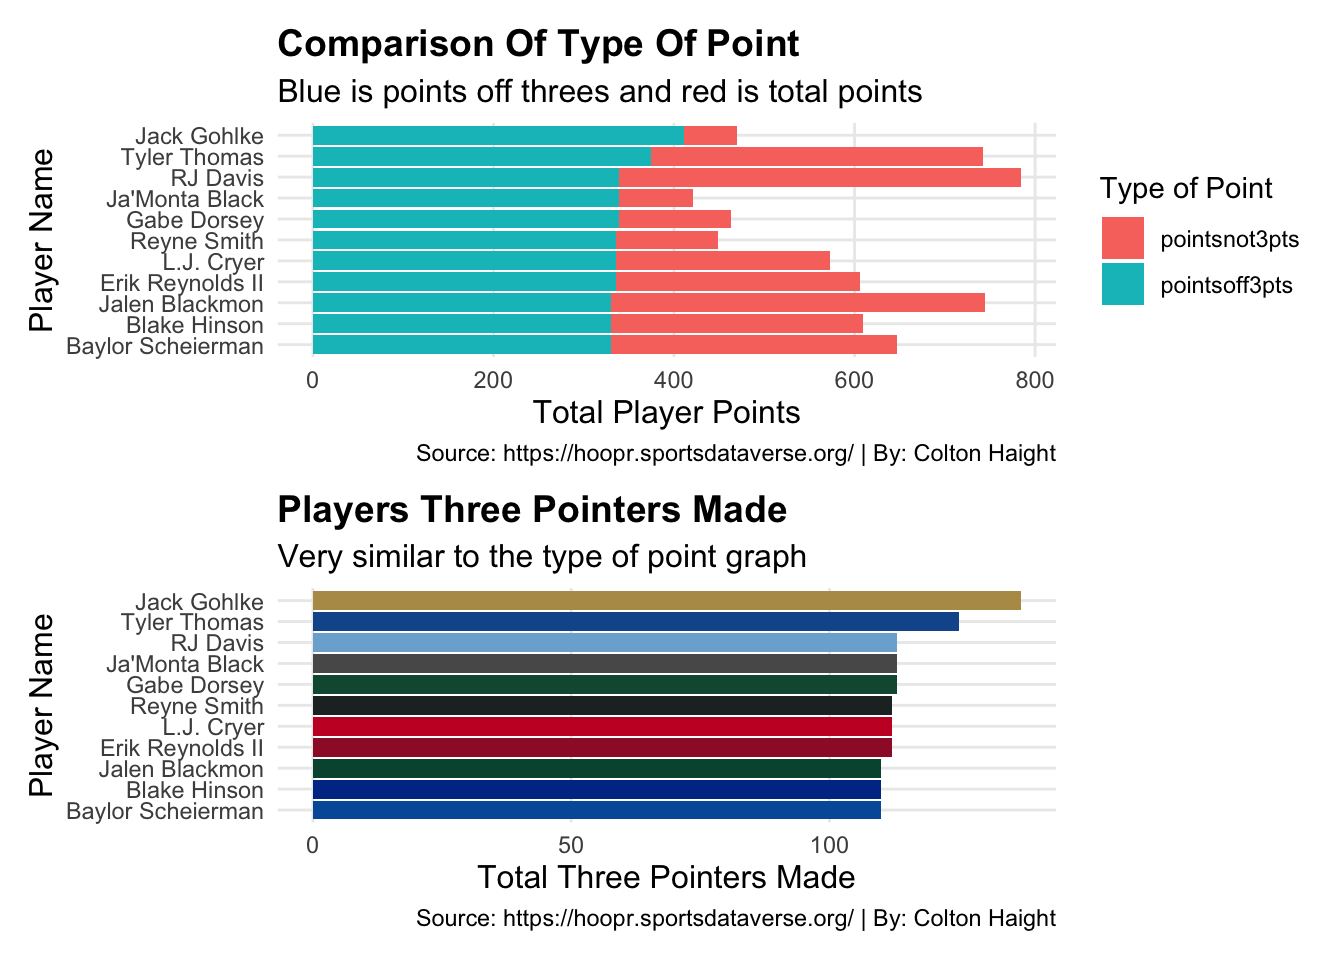
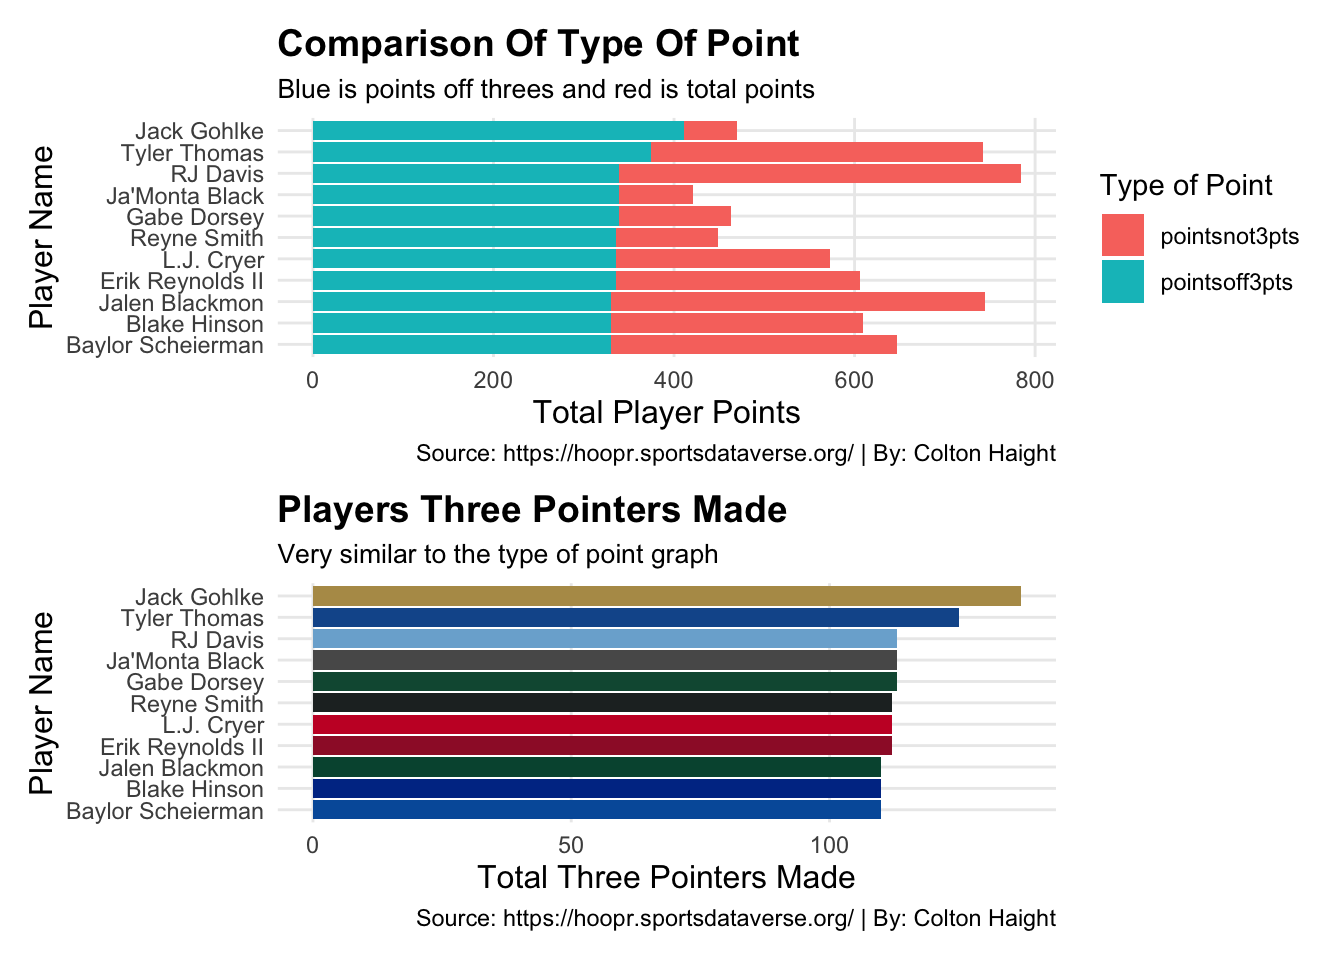
wrote some of blog

diff --git a/posts/best-3pt-shooter-mcbb-2024/index.html b/posts/best-3pt-shooter-mcbb-2024/index.html
@@ -7,7 +7,7 @@
 <meta name="viewport" content="width=device-width, initial-scale=1.0, user-scalable=yes">
 
 <meta name="author" content="Colton Haight">
-<meta name="dcterms.date" content="2024-11-05">
+<meta name="dcterms.date" content="2024-11-17">
 
 <title>Who Was The Best Three-Point Shooter in Men’s College Basketball During The 2023-2024 Season? – Haight Talks Sports</title>
 <style>
@@ -170,7 +170,7 @@ pre > code.sourceCode > span > a:first-child::before { text-decoration: underlin
       <div>
       <div class="quarto-title-meta-heading">Published</div>
       <div class="quarto-title-meta-contents">
-        <p class="date">November 5, 2024</p>
+        <p class="date">November 17, 2024</p>
       </div>
     </div>
     
@@ -189,7 +189,12 @@ pre > code.sourceCode > span > a:first-child::before { text-decoration: underlin
 
 
 
-<p>Basketball</p>
+<p>Three point shooting is a relatively new concept in the sport of basketball. After this season, NCAA men’s basketball will have been around for 130 years. That’s an extremely long amount of time. But the three point line has only been a part of the game of basketball since 1986. Only about 40 years of the 130 year history of the game there has been a three point line. But with recent styles of play and popularity it seems like it could have been around for the entire time basketball has been an organized sport.</p>
+<p>The recent surge in the volume of three pointers shot has risen a significant amount over just the last 10-15 years thanks to the success of Stephen Curry and the Golden State Warriors during their dynasty run. If you can not shoot three pointers in today’s game, you are falling behind.</p>
+<p>In professional basketball it is pretty easy to see who the best shooters are because there are only 30 teams and 18 players per team roster, or 540 players. But college basketball is a bit harder to figure out. There are a whopping 351 NCAA Division 1 men’s college basketball teams and with 15 players per roster that brings a total of 5,265 players!</p>
+<p>In this post we will be trying to figure out who the best three point shooter is in Division 1 men’s college basketball over the 2023-2024 season.</p>
+<p>The hoopR package from the <a href="https://www.sportsdataverse.org/packages"><code>sportsdataverse</code></a> has given me the data to help us figure out who could be the best three point shooter in all of D1 men’s college basketball last season.</p>
+<p>Let’s start by looking at a plot of all D1 men’s college basketball players who shot a total of at least 200 three pointers last season, comparing the total three pointers a player made to the amount of three point shots they took.</p>
 <div class="cell">
 <details class="code-fold">
 <summary>Code</summary>
@@ -242,7 +247,7 @@ pre > code.sourceCode > span > a:first-child::before { text-decoration: underlin
 </div>
 </div>
 </div>
-<p>hello</p>
+<p>Just looking at the scatter plot you can tell there are two pretty extreme outliers. Let’s figure out who they are. While we are finding out who the outliers are, here’s another plot that changes the size of the dots to show each player’s three point percentage from the 2023-2024 season.</p>
 <div class="cell">
 <details class="code-fold">
 <summary>Code</summary>
@@ -279,7 +284,10 @@ pre > code.sourceCode > span > a:first-child::before { text-decoration: underlin
 </div>
 </div>
 </div>
-<p>hello</p>
+<p>The two outliers are Jack Gohlke of the Oakland Golden Grizzlies and Tyler Thomas of the Hofstra Pride. The sheer number of three pointers shot and made by these two players last season are head and shoulders above every other player in men’s college basketball. Gohlke made 137 three pointers on the season while Thomas made 125 three pointers.</p>
+<p>Jack Gohlke had a crazy run in the NCAA Men’s Tournament last season where he went 10-20 from behind the arc in an upset win over 3rd seeded Kentucky as the 14th seed. He also knocked down 6 more threes in the next game of the tournament against NC State but fell short and were defeated.</p>
+<p>Tyler Thomas and Hofstra unfortunately failed to reach the NCAA Tournament last season but he still had a great three point shooting season.</p>
+<p>The next best way to judge how good of a shooter a player is will be by looking at the percentage they make. In any level of basketball shooting 40% on three pointers means you are an extremely efficient shooter, so let’s narrow down our group of players from before to players who made at least 40% of the three pointers they shot last season. Let’s also plot out the amount of points these players scored because a great shooter should also have a good variety of ways to get points in their arsenal. The size of dots will also be based off of the amount of threes a player made last season.</p>
 <div class="cell">
 <details class="code-fold">
 <summary>Code</summary>
@@ -370,7 +378,7 @@ pre > code.sourceCode > span > a:first-child::before { text-decoration: underlin
 <span id="cb4-40"><a href="#cb4-40" aria-hidden="true" tabindex="-1"></a>  <span class="fu">theme</span>(</span>
 <span id="cb4-41"><a href="#cb4-41" aria-hidden="true" tabindex="-1"></a>    <span class="at">plot.title =</span> <span class="fu">element_text</span>(<span class="at">size =</span> <span class="dv">14</span>, <span class="at">face =</span> <span class="st">"bold"</span>),</span>
 <span id="cb4-42"><a href="#cb4-42" aria-hidden="true" tabindex="-1"></a>    <span class="at">axis.title =</span> <span class="fu">element_text</span>(<span class="at">size =</span> <span class="dv">12</span>), </span>
-<span id="cb4-43"><a href="#cb4-43" aria-hidden="true" tabindex="-1"></a>    <span class="at">plot.subtitle =</span> <span class="fu">element_text</span>(<span class="at">size =</span> <span class="dv">12</span>), </span>
+<span id="cb4-43"><a href="#cb4-43" aria-hidden="true" tabindex="-1"></a>    <span class="at">plot.subtitle =</span> <span class="fu">element_text</span>(<span class="at">size =</span> <span class="dv">10</span>), </span>
 <span id="cb4-44"><a href="#cb4-44" aria-hidden="true" tabindex="-1"></a>    <span class="at">panel.grid.minor =</span> <span class="fu">element_blank</span>()</span>
 <span id="cb4-45"><a href="#cb4-45" aria-hidden="true" tabindex="-1"></a>  )</span>
 <span id="cb4-46"><a href="#cb4-46" aria-hidden="true" tabindex="-1"></a></span>
@@ -399,7 +407,7 @@ pre > code.sourceCode > span > a:first-child::before { text-decoration: underlin
 <span id="cb4-69"><a href="#cb4-69" aria-hidden="true" tabindex="-1"></a>  <span class="fu">theme</span>(</span>
 <span id="cb4-70"><a href="#cb4-70" aria-hidden="true" tabindex="-1"></a>    <span class="at">plot.title =</span> <span class="fu">element_text</span>(<span class="at">size =</span> <span class="dv">14</span>, <span class="at">face =</span> <span class="st">"bold"</span>),</span>
 <span id="cb4-71"><a href="#cb4-71" aria-hidden="true" tabindex="-1"></a>    <span class="at">axis.title =</span> <span class="fu">element_text</span>(<span class="at">size =</span> <span class="dv">12</span>), </span>
-<span id="cb4-72"><a href="#cb4-72" aria-hidden="true" tabindex="-1"></a>    <span class="at">plot.subtitle =</span> <span class="fu">element_text</span>(<span class="at">size =</span> <span class="dv">12</span>), </span>
+<span id="cb4-72"><a href="#cb4-72" aria-hidden="true" tabindex="-1"></a>    <span class="at">plot.subtitle =</span> <span class="fu">element_text</span>(<span class="at">size =</span> <span class="dv">10</span>), </span>
 <span id="cb4-73"><a href="#cb4-73" aria-hidden="true" tabindex="-1"></a>    <span class="at">panel.grid.minor =</span> <span class="fu">element_blank</span>()</span>
 <span id="cb4-74"><a href="#cb4-74" aria-hidden="true" tabindex="-1"></a>  )</span>
 <span id="cb4-75"><a href="#cb4-75" aria-hidden="true" tabindex="-1"></a></span>

diff --git a/index.html b/index.html
@@ -205,7 +205,7 @@ window.Quarto = {
 
 <div class="quarto-listing quarto-listing-container-default" id="listing-listing">
 <div class="list quarto-listing-default">
-<div class="quarto-post image-right" data-index="0" data-categories="TkNBQSxCYXNrZXRiYWw=" data-listing-date-sort="1730786400000" data-listing-file-modified-sort="1731275831451" data-listing-date-modified-sort="NaN" data-listing-reading-time-sort="8" data-listing-word-count-sort="1488">
+<div class="quarto-post image-right" data-index="0" data-categories="TkNBQSxCYXNrZXRiYWw=" data-listing-date-sort="1731823200000" data-listing-file-modified-sort="1731454546770" data-listing-date-modified-sort="NaN" data-listing-reading-time-sort="11" data-listing-word-count-sort="2094">
 <div class="thumbnail">
 <p><a href="./posts/best-3pt-shooter-mcbb-2024/index.html" class="no-external"></a></p><a href="./posts/best-3pt-shooter-mcbb-2024/index.html" class="no-external">
 <p><img loading="lazy" src="./posts/best-3pt-shooter-mcbb-2024/image.png" class="thumbnail-image"></p>
@@ -227,13 +227,13 @@ Basketbal
 </div>
 </div>
 <div class="listing-description">
-<a href="./posts/best-3pt-shooter-mcbb-2024/index.html" class="no-external">Basketball</a>
+<a href="./posts/best-3pt-shooter-mcbb-2024/index.html" class="no-external">Three point shooting is a relatively new concept in the sport of basketball. After this season, NCAA men’s basketball will have been around for 130 years. That’s an…</a>
 </div>
 </div>
 <div class="metadata">
 <a href="./posts/best-3pt-shooter-mcbb-2024/index.html" class="no-external">
 <div class="listing-date">
-Nov 5, 2024
+Nov 17, 2024
 </div>
 <div class="listing-author">
 Colton Haight
